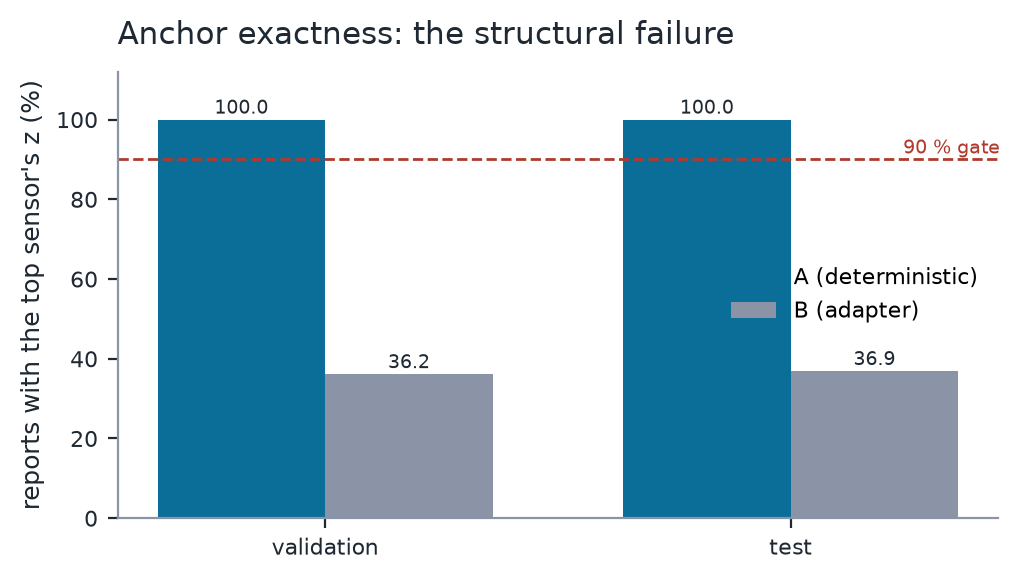
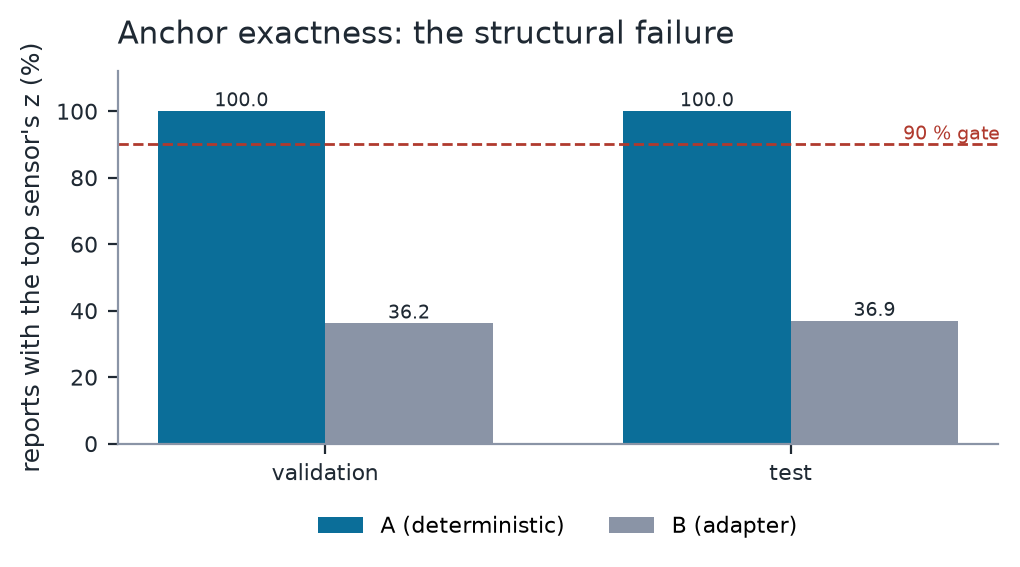
Audit the manuscript against its artefacts and fix what the audit found.
Numbers: every substantive figure matches its cited artefact; the two McNemar p-values are stored as 0.0 by
float underflow, so the manuscript now derives them from the discordant counts instead of quoting a value no
file contains. Figures: sub-1 % bars were labelled 0, which read as zero defects, and two legends collided
with plotted content. Bibliography: InternVL3's first author is Jinguo Zhu, not Zhe Chen, and the citation key
follows the correction.

diff --git a/scripts/make_figures.py b/scripts/make_figures.py
@@ -83,7 +83,7 @@ def fig_cells(cells):
     bars = ax.bar(labels, [r * 100 for r in rates], color=[ACCENT if k in "ACD" else MUTED for k in labels],
                   width=0.6)
     ax.axhline(2.0, color=GATE, linestyle="--", linewidth=1)
-    ax.text(4.45, 2.15, "2 % gate", color=GATE, fontsize=7, ha="right")
+    ax.text(2.5, 2.18, "2 % gate", color=GATE, fontsize=7, ha="center")
     for bar, value in zip(bars, rates):
         ax.text(bar.get_x() + bar.get_width() / 2, bar.get_height() + 0.12, "%.2f" % (value * 100),
                 ha="center", fontsize=7, color=INK)
@@ -102,7 +102,8 @@ def fig_stratified(val, test):
         vals = [data.get(c, {}).get("rate", 0) * 100 for c in classes]
         bars = ax.bar([i + (offset - 0.5) * width for i in x], vals, width=width, label=name, color=color)
         for bar, value in zip(bars, vals):
-            ax.text(bar.get_x() + bar.get_width() / 2, bar.get_height() + 1.2, "%.0f" % value,
+            label = "%.1f" % value if value < 10 else "%.0f" % value
+            ax.text(bar.get_x() + bar.get_width() / 2, bar.get_height() + 1.2, label,
                     ha="center", fontsize=7, color=INK)
     ax.set_xticks(list(x))
     ax.set_xticklabels(classes)
@@ -149,7 +150,7 @@ def fig_anchor(cells, d33):
     ax.text(1.45, 91.5, "90 % gate", color=GATE, fontsize=7, ha="right")
     ax.set_xticks(list(x))
     ax.set_xticklabels([r[0] for r in rows])
-    ax.legend(frameon=False, fontsize=8)
+    ax.legend(frameon=False, fontsize=8, loc="upper center", bbox_to_anchor=(0.5, -0.14), ncol=2)
     style(ax, "Anchor exactness: the structural failure", "reports with the top sensor's z (%)", ymax=112)
     fig.tight_layout()
     fig.savefig(FIG / "fig4_anchor.png", bbox_inches="tight")

diff --git a/docs/reports/MANUSCRIPT_AUDIT_2026-11-16.md b/docs/reports/MANUSCRIPT_AUDIT_2026-11-16.md
@@ -1,0 +1,72 @@
+# Manuscript audit — 2026-11-16
+
+Scope: every number in `PAPER_MANUSCRIPT_2026-11-16.md`, the four figures in `docs/reports/figures/`, and the
+eleven entries in `references.bib`. Each number was read back from the artefact the manuscript cites, not from
+another report. Result: **all substantive numbers match; three presentational defects and one citation error
+were found and fixed.**
+
+## 1. Numbers against artefacts
+
+| manuscript claim | artefact | artefact value | verdict |
+|---|---|---|---|
+| A fit: 0 numeric, 520/520 anchor | `n4_cells.json` summary A | 0, 520/520 | pass |
+| B fit: 30 (5.77 %), grounding 33, role 57, contradiction 0, anchor 188 | summary B | 30, 0.0577, 33, 57, 0, 188 | pass |
+| C fit: 0, grounding 1, role 17, anchor 520 | summary C | 0, 1, 17, 520 | pass |
+| M fit: 30, grounding 32, role 43, anchor 191 | summary M | 30, 32, 43, 191 | pass |
+| D fit: 0 on every check except anchor 262 | summary D | 0,0,0,0, 262 | pass |
+| D substitutes 114/520 (21.9 %) | `seam_certification.D_fallback_rows` | 114 | pass |
+| C leaks 0 of B's values, M leaks 0 of A's | `seam_certification` | 0, 0 | pass |
+| test A: numeric 0, grounding 250 (7.89 %) | `test_contrast.json` | 0, 250, 0.0789 | pass |
+| test B: numeric 40 (1.26 %), grounding 325 (10.26 %), contradiction 5 (0.16 %), role 458 (14.46 %) | same | 40, 0.0126, 325, 0.1026, 5, 0.0016, 458, 0.1446 | pass |
+| anchor A 3,168 (100 %), B 1,170 (36.93 %) | `anchor_status` | 3168, 1170 | pass |
+| anchor failure split 46.1 / 6.4 / 10.6 % | `z_omitted` 1459, `contradicting_value` 203, `sensor_absent` 336 | 46.05 %, 6.41 %, 10.61 % | pass |
+| stratified fit: 29/47, 1/454, 0/19 | recomputed (`figure_data.json`) | 0.617, 0.0022, 0.0 | pass |
+| stratified test: 29/40, 6/1814, 5/1314 | same | 0.725, 0.0033, 0.0038 | pass |
+| composition fit 454/47/19, test 1814/40/1314 | `rows_test.jsonl`, `build_orders()` | match; percentages 87.3/9.0/3.7 and 57.3/1.3/41.5 | pass |
+| classifier 0.9980 / 0.9940 / 0.9940 / 0.9698 / 0.8330 with CIs | `classifier_contrasts.json` | exact match, 497 items | pass |
+| hybrid vs LightGBM 2 vs 2, p = 1.0 | `contrasts.hybrid_vs_gbdt` | b=2, c=2, p=1.0 | pass |
+| preference 360 pairs, κ 0.5776, obs 0.7778, exp 0.4739 | `outputs/preference_2026-11-16/kappa.json` | exact match | pass |
+| receipt: chosen A, rung 5, ceiling 1.00 % | `selection_receipt_..._corrected2.json` | A, 5, m = 0.01 | pass |
+| changelog 19/62/619/115 → 13/50/619/111 → 0/30/0/40 | `D33_TEST_CONTRAST` §1, handover line 1513 | match | pass |
+| 834/834 reproduction, 46/46 calibration, 1 of 12 batch-identical | D33 record, final report §125, §272 | match | pass |
+| McNemar p = 1.9 × 10⁻⁹ and 1.8 × 10⁻¹² | stored fields are 0.0 (float underflow) | derived 2·0.5³⁰, 2·0.5⁴⁰ | **fixed** — manuscript now states the derivation |
+
+No number required a change. One provenance gap was closed: the two p-values are stored as `0.0` in the
+artefacts, so the manuscript now derives them from the discordant counts instead of quoting a figure no file
+contains.
+
+## 2. Figures
+
+All four render and plot the intended data (verified against `figure_data.json`: cells 0 / 5.77 / 0 / 5.77 / 0,
+anchor A 3,168 exact, B 1,170 with the three failure components).
+
+| figure | defect found | fix |
+|---|---|---|
+| fig1 cells | the "2 % gate" label sat on the line at the panel edge | label moved to mid-axis above the line |
+| fig2 stratified | the 0.2 %, 0.3 % and 0.4 % bars were labelled "0", reading as zero defects | sub-10 % values now print one decimal |
+| fig3 classifier | none — bars, CIs and values correct | — |
+| fig4 anchor | legend floated inside the plotting area next to the B bar | legend moved to lower centre, two columns |
+
+## 3. Bibliography
+
+| entry | checked against | verdict |
+|---|---|---|
+| `downs1993plant` | ScienceDirect record: Comput. Chem. Eng. 17(3):245–255, 1993 | pass; DOI added |
+| `yin2012comparison` | ScienceDirect, OpenAlex: J. Process Control 22(9):1567–1581, 2012 | pass; DOI added |
+| `zhu2025internvl3` | arXiv:2504.10479 (v3, 19 Apr 2025) | **fixed** — first author is Jinguo Zhu; entry was attributed to Zhe Chen (third author), and the key renamed from `chen2025internvl3` |
+| `hu2021lora` | arXiv:2106.09685; ICLR 2022 poster | pass |
+| `ke2017lightgbm` | NeurIPS proceedings, NIPS 30 | pass; page range 3149–3157 added |
+| `cohen1960coefficient` | SAGE / APA: EPM 20(1):37–46, 1960 | pass; DOI added |
+| `mcnemar1947note` | Springer: Psychometrika 12(2):153–157, June 1947 | pass; DOI added |
+| `clopper1934use` | Oxford Academic: Biometrika 26(4):404–413, Dec 1934 | pass; DOI added |
+| `guo2017calibration` | ICML 2017, PMLR 70:1321–1330 | pass (standard record); series and pages added |
+| `zheng2023judging` | NeurIPS 2023 Datasets and Benchmarks; arXiv:2306.05685 | pass |
+| `russell2000data` | Springer, Advances in Industrial Control series | pass |
+
+The manuscript's in-text key for the multimodal model was updated to `zhu2025internvl3`.
+
+## 4. What this audit does not cover
+
+The manuscript's *prose* claims were checked for consistency with the tables, not re-reviewed for style. No
+claim was found that exceeds its table. The non-claims section still holds: nothing in the draft asserts an
+adapter advantage on numeric fidelity, a preference ordering, or a mechanism-quality effect.

diff --git a/docs/reports/PAPER_MANUSCRIPT_2026-11-16.md b/docs/reports/PAPER_MANUSCRIPT_2026-11-16.md
@@ -57,7 +57,7 @@ discriminant variants were compared systematically by [@yin2012comparison], buil
 definition of [@downs1993plant] and the data-driven treatment of [@russell2000data]. Our contribution is not a
 new detector; the detector frontier is deliberately out of scope (Table 7, not reported here).
 
-Parameter-efficient adaptation [@hu2021lora] makes a 2B multimodal model [@chen2025internvl3] cheap enough to
+Parameter-efficient adaptation [@hu2021lora] makes a 2B multimodal model [@zhu2025internvl3] cheap enough to
 fine-tune per plant, which is the practical reason a small adapter is interesting at all. Gradient boosting
 remains a strong tabular baseline [@ke2017lightgbm], and we use LightGBM as exactly that: a check on whether
 the calibrated hybrid's accuracy is earned by its structure or by its features.
@@ -139,7 +139,8 @@ effect on the numbers (§8), because an instrument that changes must be able to 
 | M | 30 | 5.77 % | 32 | 43 | 0 | 191/520 |
 | D | 0 | 0.00 % | 0 | 0 | 0 | 262/520 |
 
-McNemar, B against A: 30 vs 0, exact p ≈ 1.9 × 10⁻⁹. The seams certify: C leaks 0 of B's numeric values and M
+McNemar, B against A: 30 vs 0, exact p = 2·0.5³⁰ ≈ 1.9 × 10⁻⁹ (the scorer's stored field reads 0.0, a float
+underflow, so the value is derived from the discordant counts). The seams certify: C leaks 0 of B's numeric values and M
 leaks 0 of A's. D substitutes A on 114 of 520 rows (21.9 %), inside its pre-registered 25 % ceiling.
 
 Note what the cell table does *not* show: B's numeric rate (5.77 %) is the highest in the table, but C — A's
@@ -157,7 +158,8 @@ numbers inside B's prose — is exact. The numbers, not the prose, carry the def
 | instrument role | 0 | 458 (14.46 %) | ≤ 2 % | B fails |
 | anchor exact | **3,168 (100 %)** | **1,170 (36.93 %)** | ≥ 90 % | B fails |
 
-McNemar: 40 vs 0, exact p ≈ 2 × 10⁻¹². B's anchor failures decompose into an omitted z-score (46.1 % of rows),
+McNemar: 40 vs 0, exact p = 2·0.5⁴⁰ ≈ 1.8 × 10⁻¹² (stored as 0.0 by underflow, derived from the counts). B's
+anchor failures decompose into an omitted z-score (46.1 % of rows),
 a value contradicting the stored one (6.4 %), and a named sensor that was never on the page (10.6 %).
 
 This is the paper's central contrast. The adapter **meets the numeric budget on held-out data** — a genuinely
